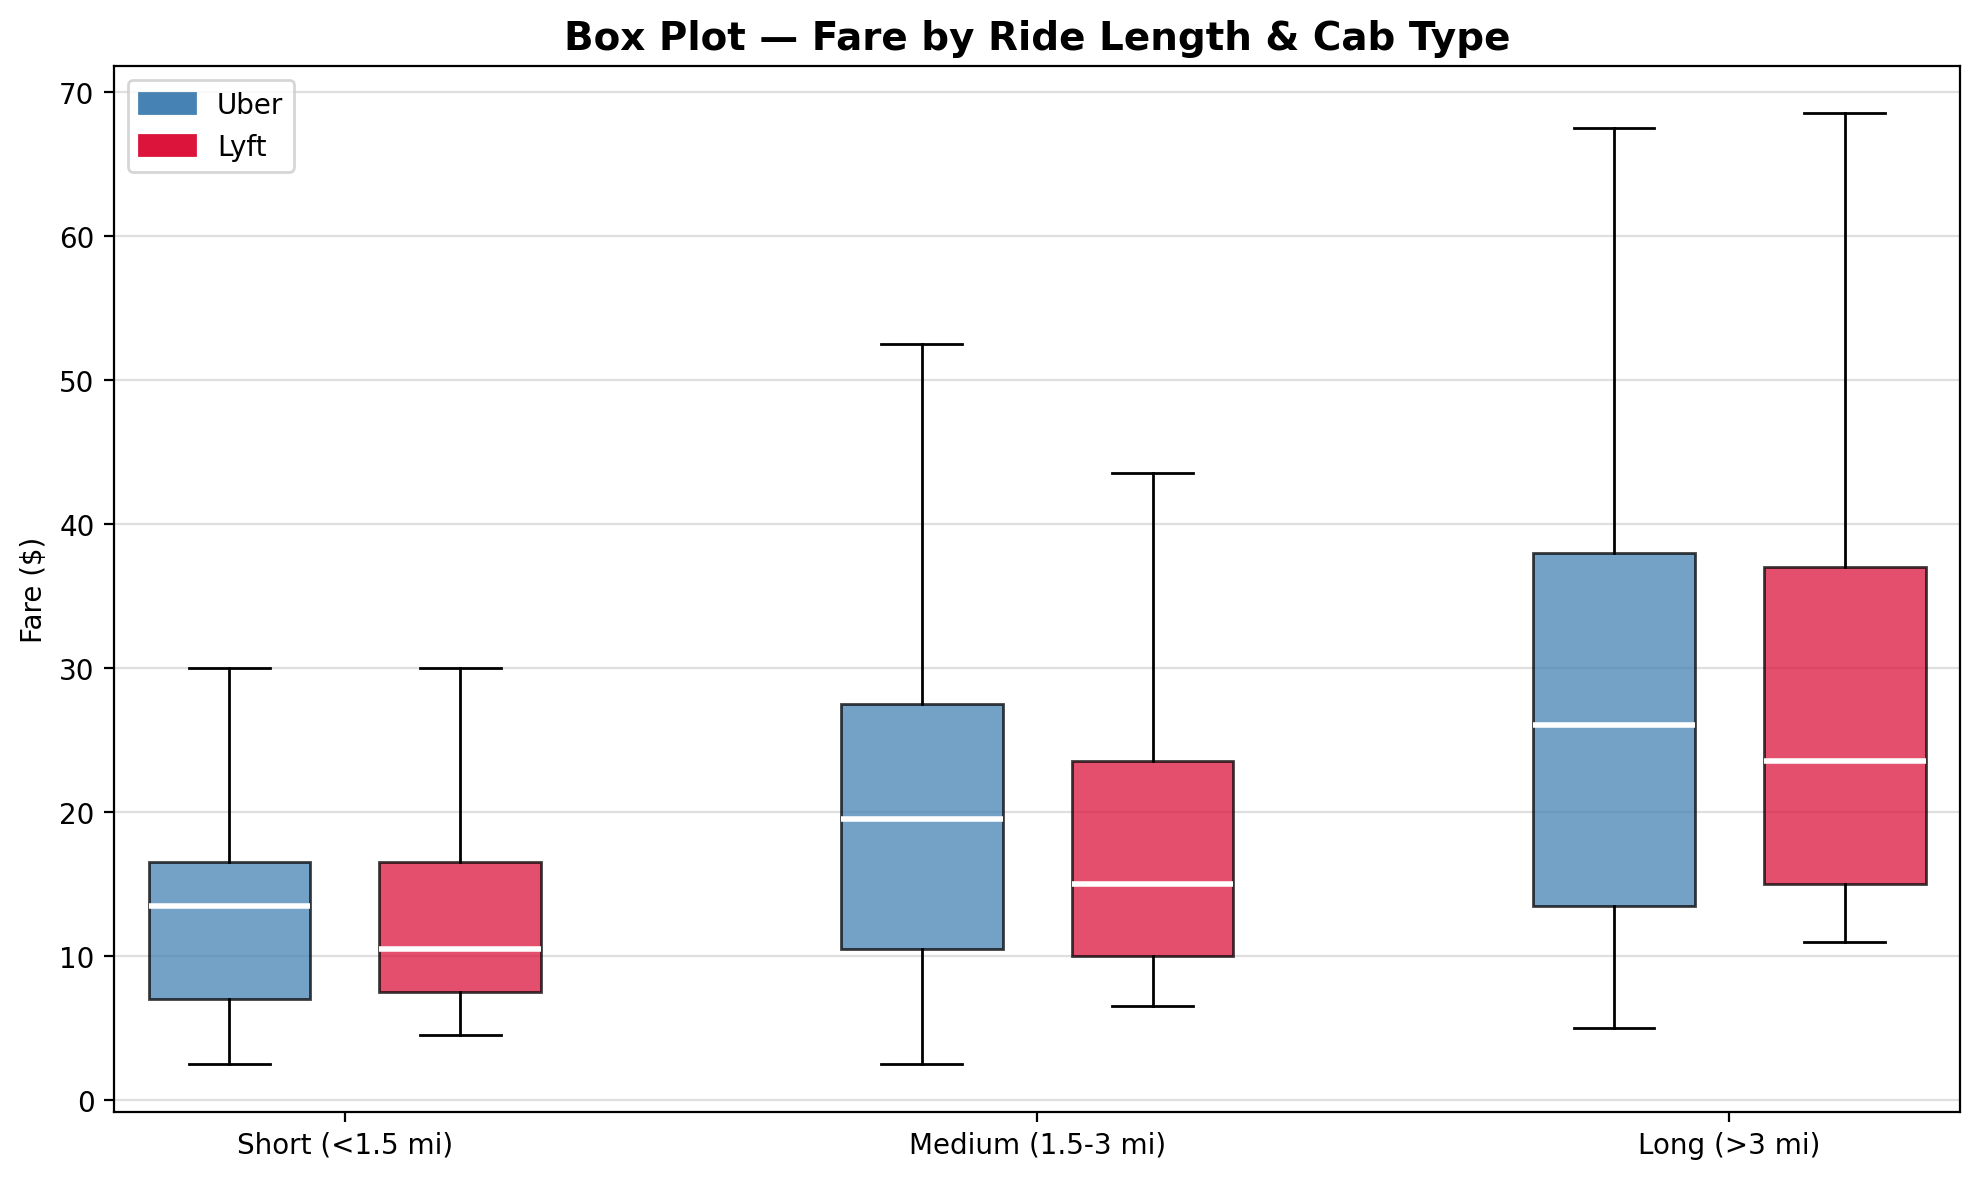
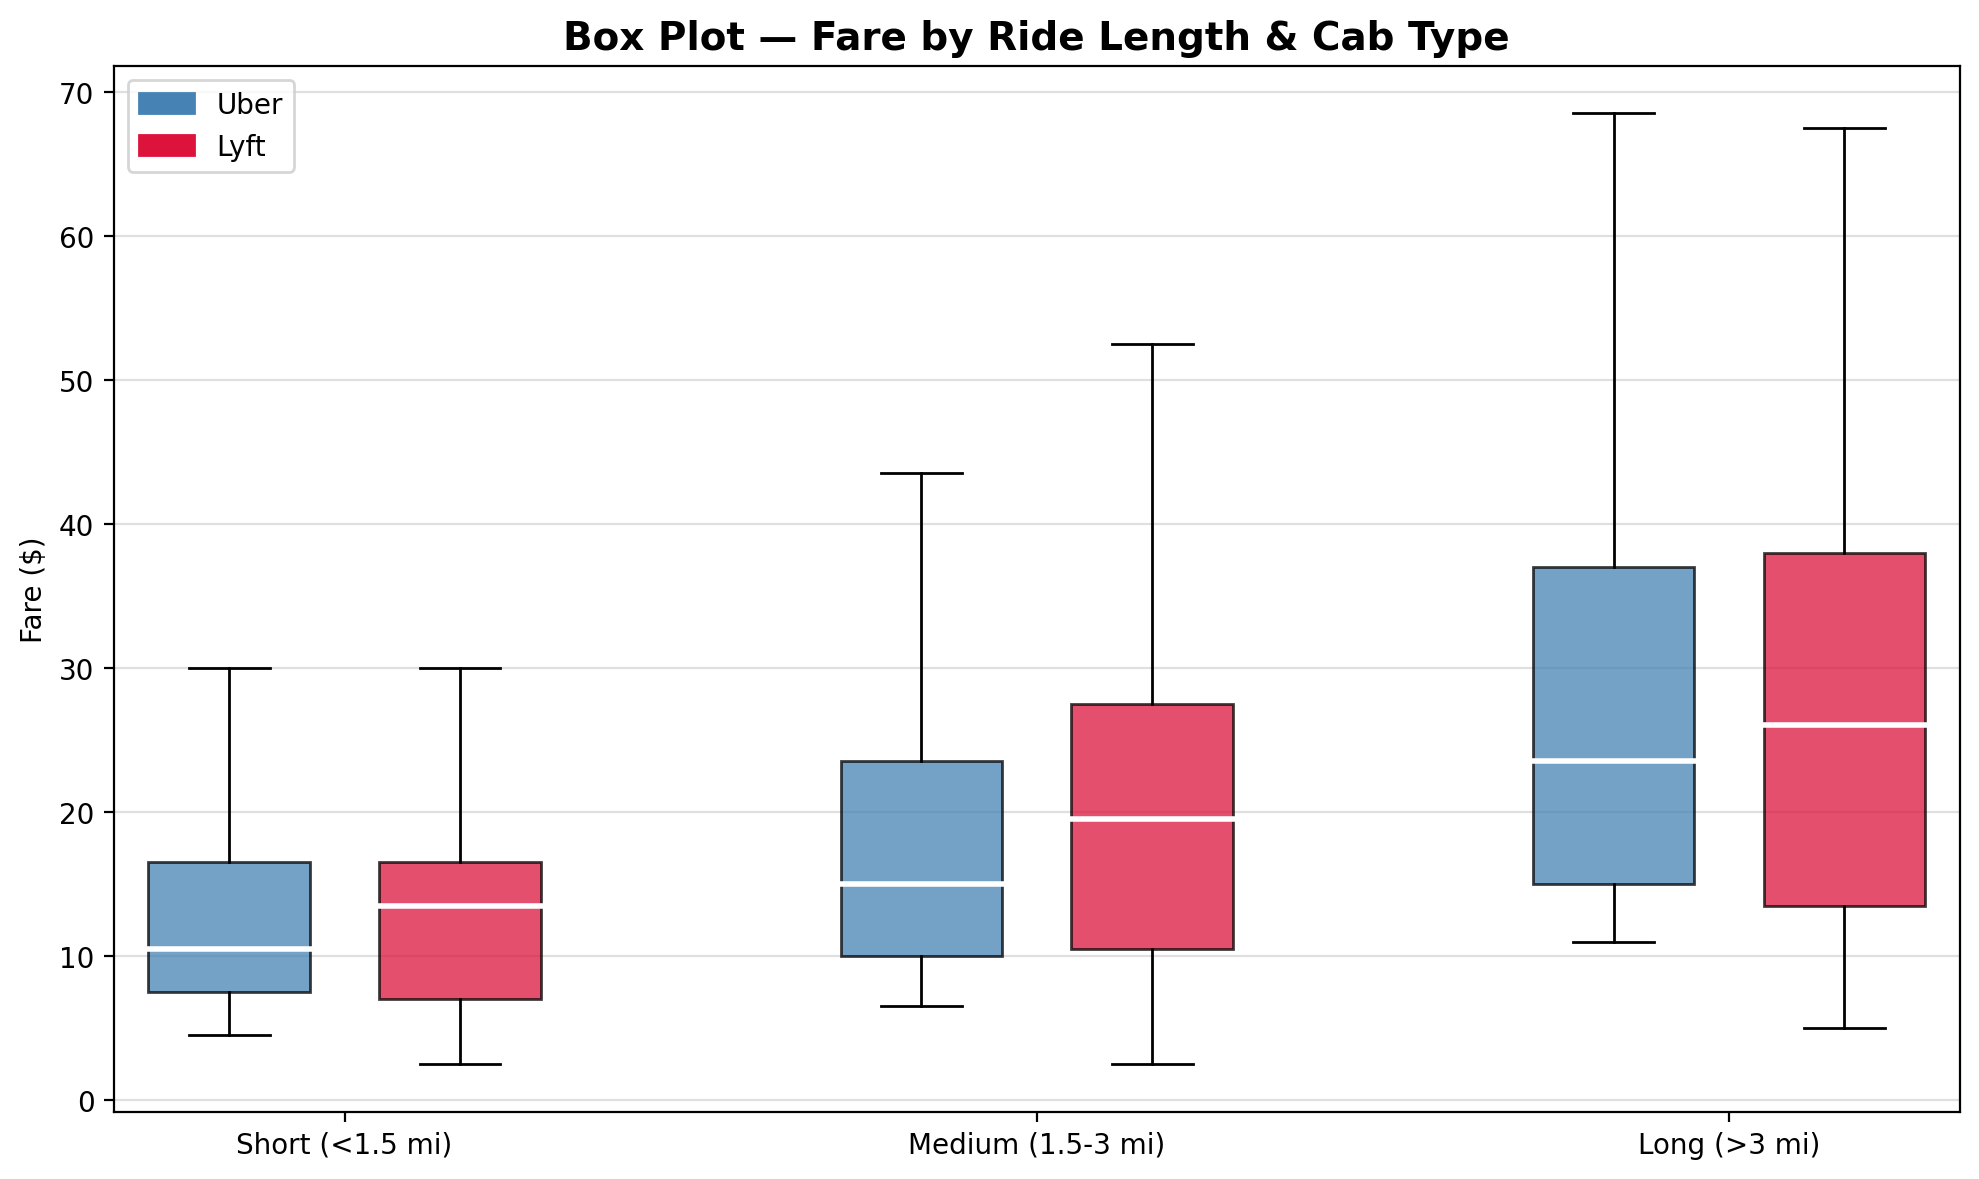
Fix visualization mappings (cab_type and name encoding) and re-apply data leakage fix

diff --git a/UberLyft_Boston_Analysis/master_pipeline/visualization.py b/UberLyft_Boston_Analysis/master_pipeline/visualization.py
@@ -39,8 +39,8 @@ print("Loading data...")
 reg = pd.read_csv(REG_PATH)
 clf = pd.read_csv(CLF_PATH)
 
-reg["Cab"] = reg["cab_type"].map({0: "Uber", 1: "Lyft"})
-clf["Cab"] = clf["cab_type"].map({0: "Uber", 1: "Lyft"})
+reg["Cab"] = reg["cab_type"].map({0: "Lyft", 1: "Uber"})
+clf["Cab"] = clf["cab_type"].map({0: "Lyft", 1: "Uber"})
 
 uber = reg[reg["Cab"] == "Uber"]["price"]
 lyft = reg[reg["Cab"] == "Lyft"]["price"]
@@ -68,10 +68,11 @@ save("01_histogram_fare_distribution.png")
 # 2. BAR CHART — Average fare by ride service type
 # ══════════════════════════════════════════════════════════
 name_map = {
-    0: "Lyft",      1: "Lyft XL",     8: "Lux",
-    9: "Lux Black", 10: "Lux Black XL", 11: "Lyft Black",
-    2: "UberX",     3: "UberXL",      4: "Black",
-    5: "UberPool",  6: "Black SUV",   7: "UberWAV",
+    0: "Black",      1: "Black SUV",    2: "Lux",
+    3: "Lux Black",  4: "Lux Black XL", 5: "Lyft",
+    6: "Lyft XL",    7: "Shared",       8: "Taxi",
+    9: "UberPool",  10: "UberX",       11: "UberXL",
+   12: "WAV",
 }
 reg["service"] = reg["name"].map(name_map)
 

diff --git a/UberLyft_Boston_Analysis/master_pipeline/create_datasets.py b/UberLyft_Boston_Analysis/master_pipeline/create_datasets.py
@@ -112,7 +112,7 @@ regression_features = [col for col in regression_features if col in df.columns]
 
 classification_features = [
     col for col in regression_features
-    if 'surge' not in col and col != 'surge_multiplier'
+    if 'surge' not in col and col != 'surge_multiplier' and col not in ['name', 'name_encoded']
 ]
 
 y_price = df['price']
